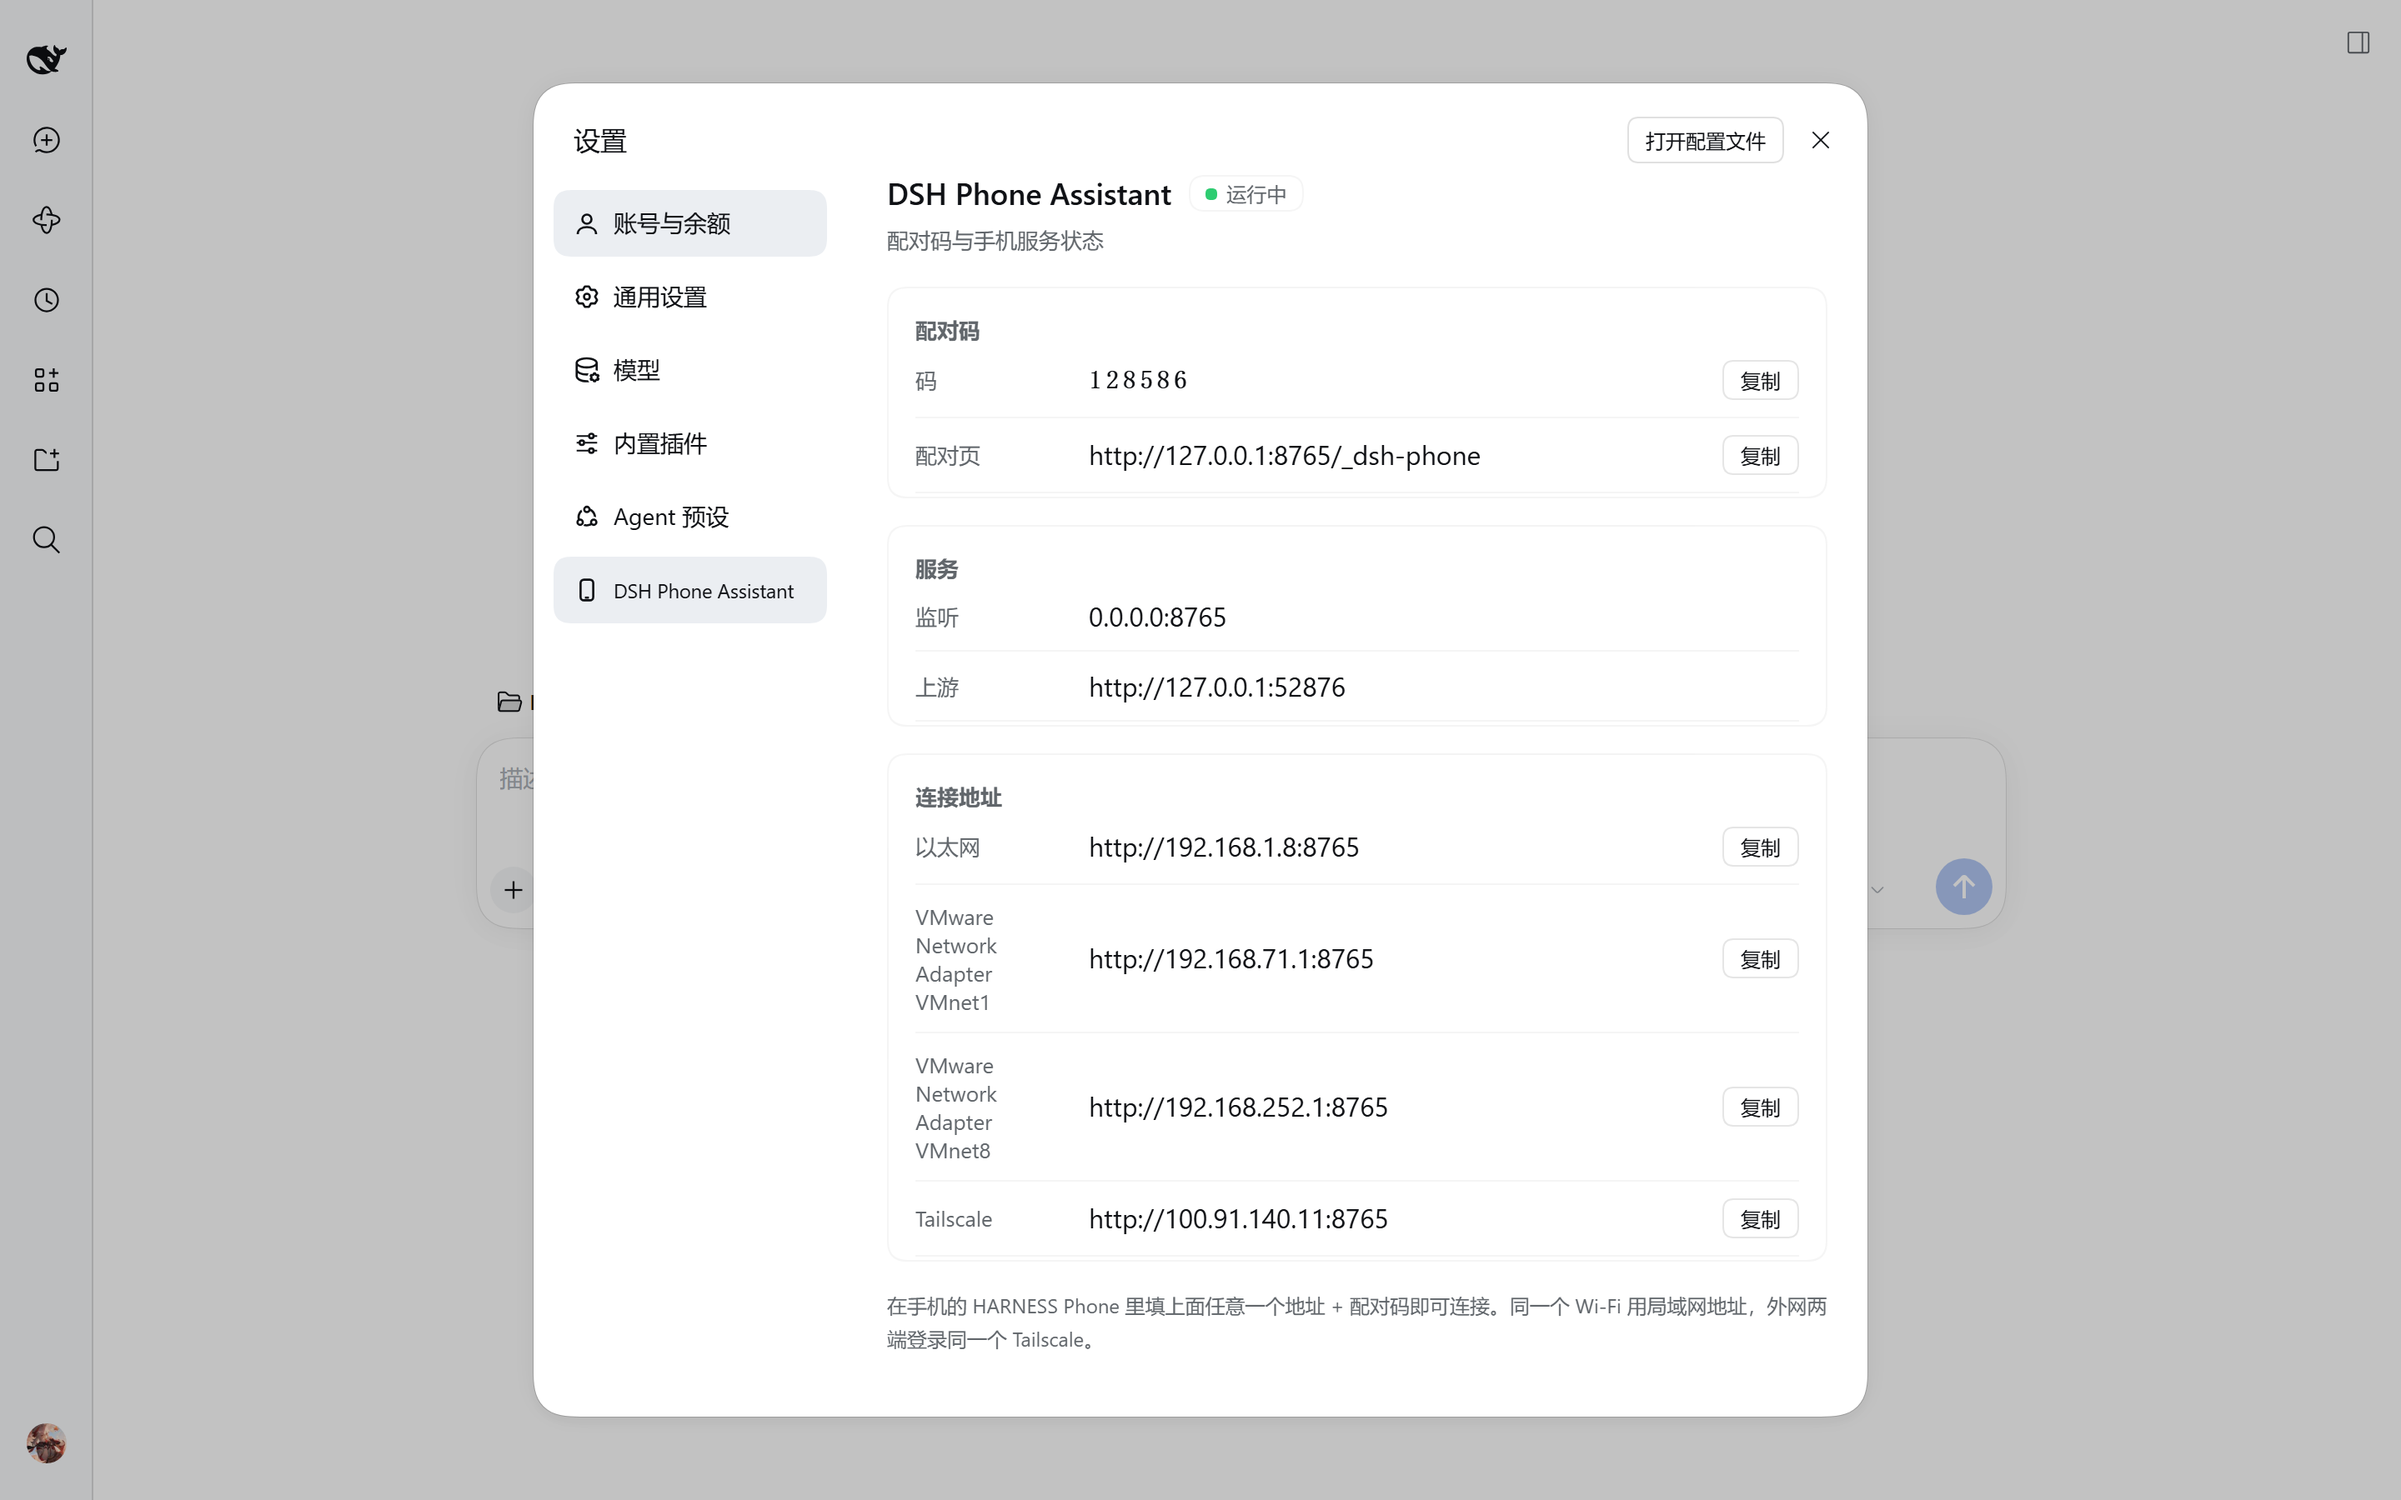
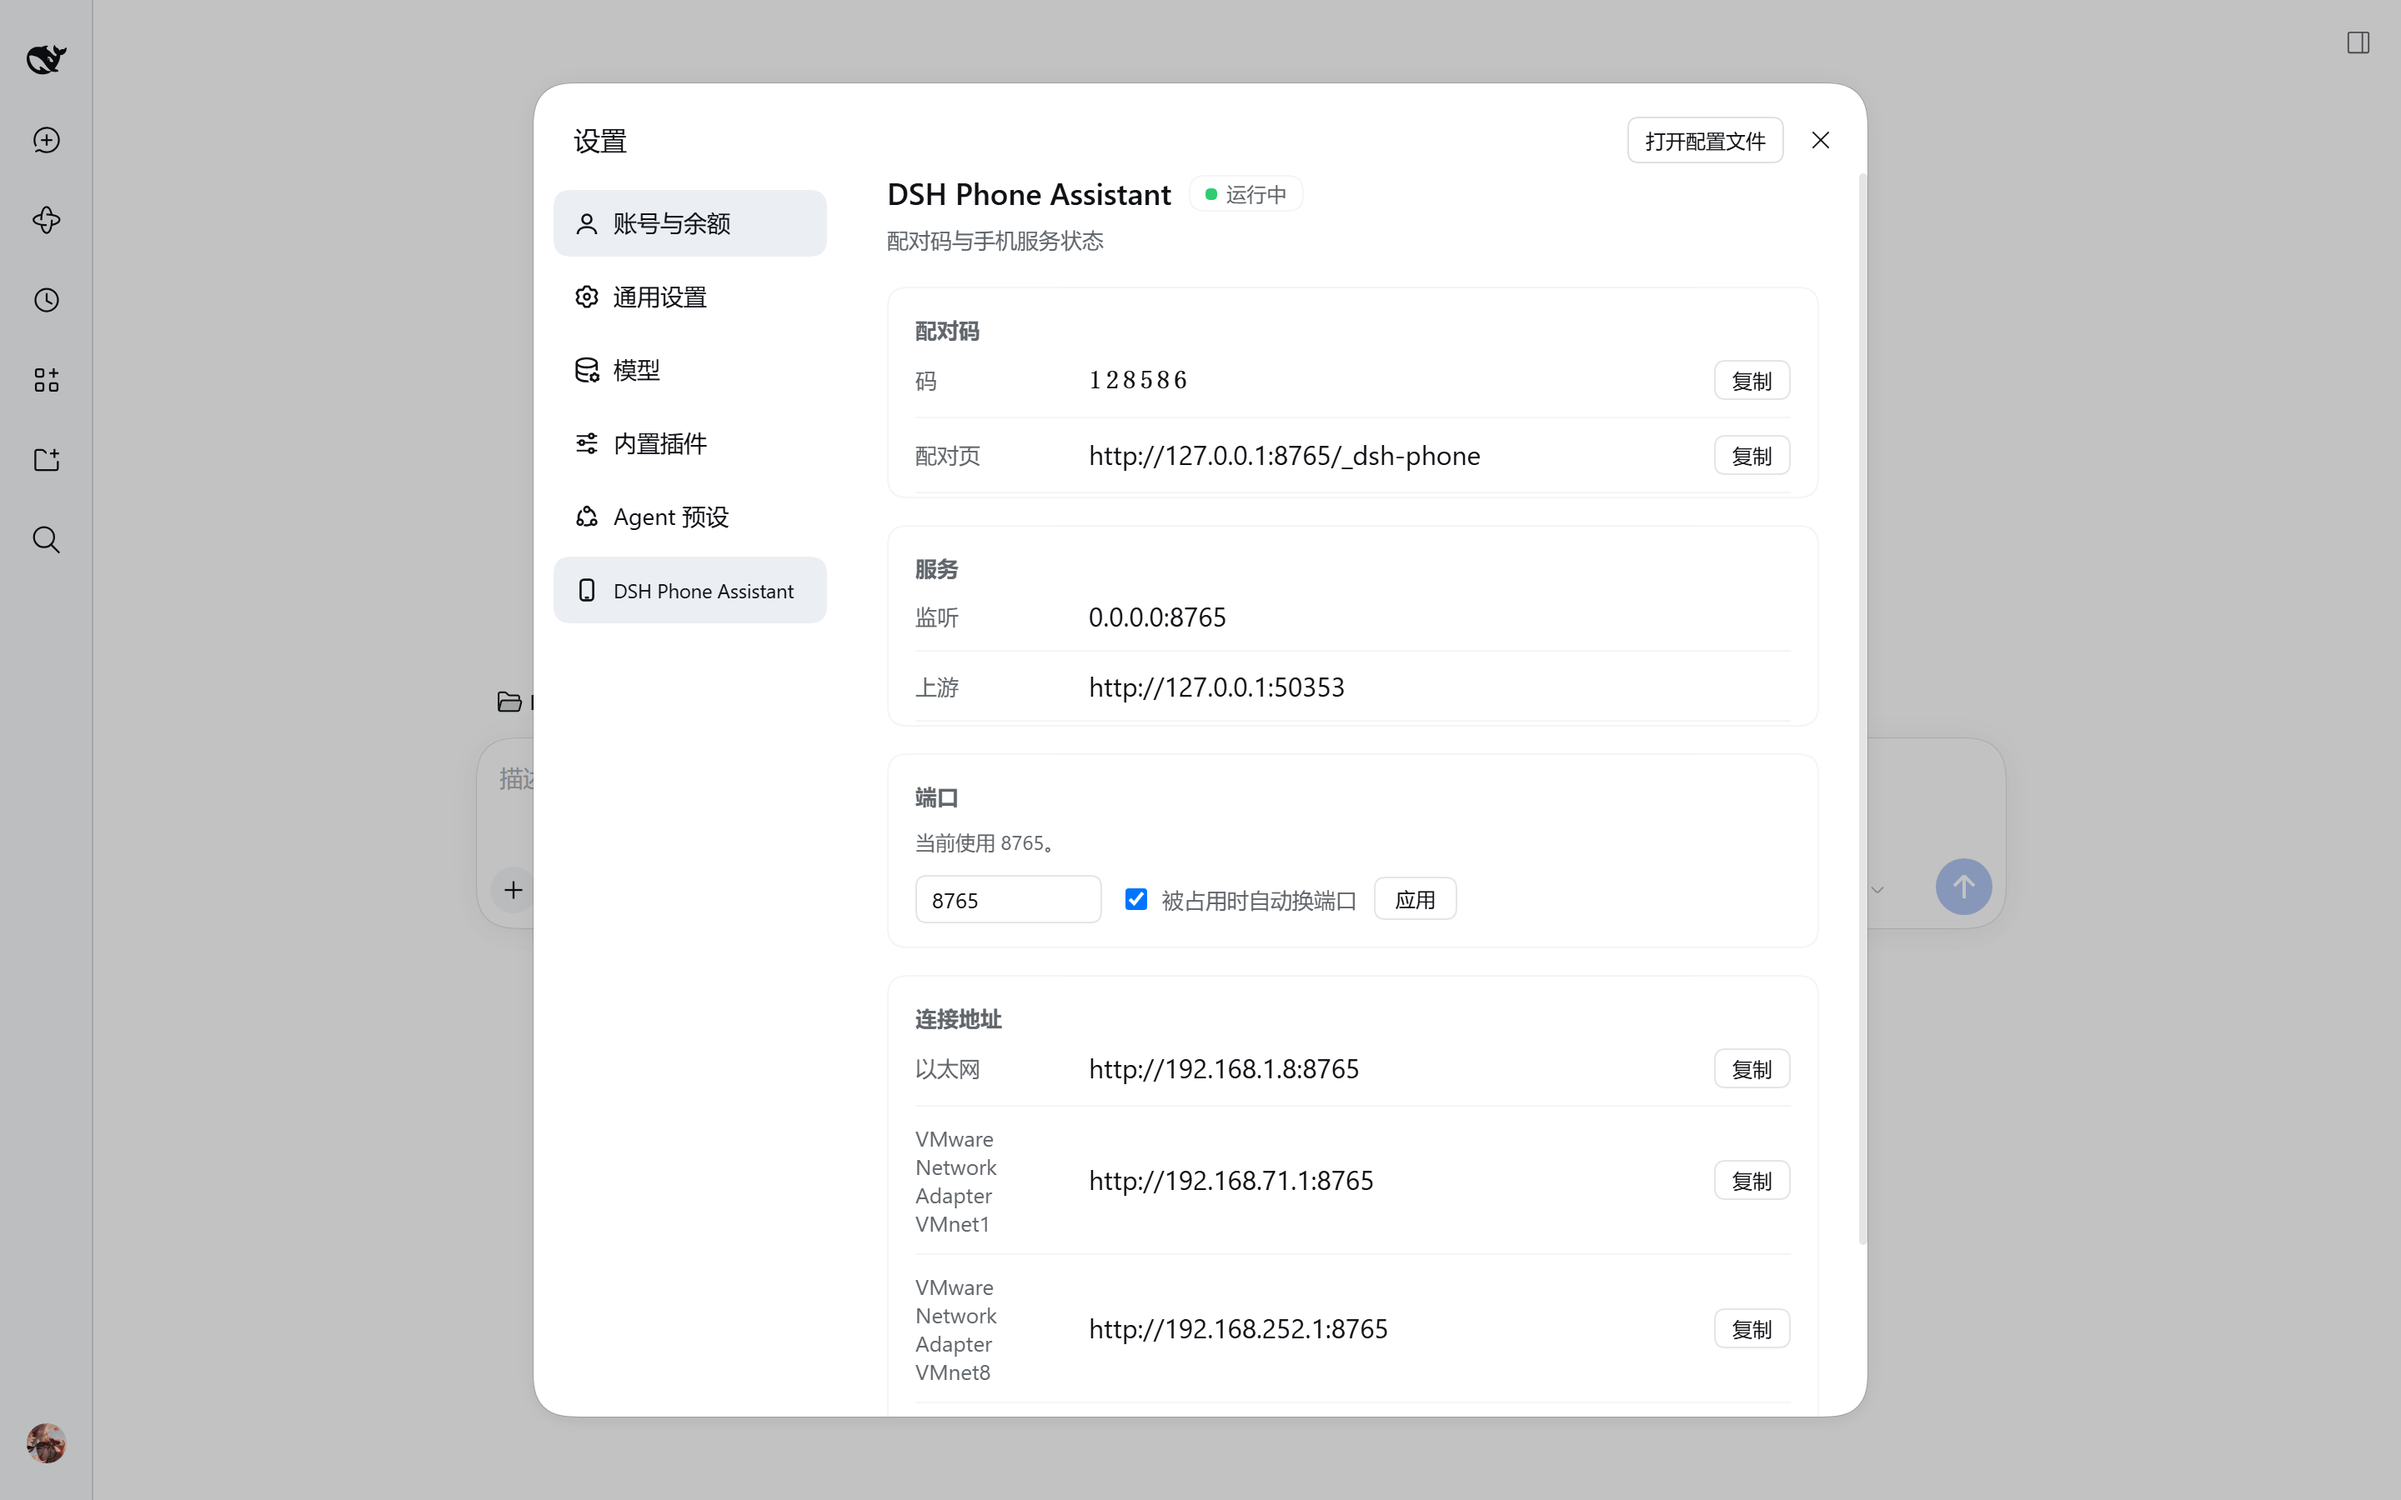
Probe the port range in the settings section and accept preflights

diff --git a/lib/client.js b/lib/client.js
@@ -1650,7 +1650,8 @@ function runSettingsSection() {
   if (window.__hpPhoneSettingsSection) return
   window.__hpPhoneSettingsSection = true
 
-  const BRIDGE = 'http://127.0.0.1:8765'
+  let BRIDGE = null
+  const PORT_CANDIDATES = Array.from({ length: 26 }, (_, i) => 8765 + i)
   const LABEL = 'DSH Phone Assistant'
   const SUBTITLE = '配对码与手机服务状态'
 
@@ -1794,19 +1795,37 @@ function runSettingsSection() {
       '在手机的 HARNESS Phone 里填上面任意一个地址 + 配对码即可连接。同一个 Wi-Fi 用局域网地址，外网两端登录同一个 Tailscale。'))
   }
 
+  async function readStatus(base) {
+    const controller = new AbortController()
+    const timer = setTimeout(() => controller.abort(), 1200)
+    try {
+      const res = await fetch(base + '/__dsh-phone/status?t=' + Date.now(), { signal: controller.signal })
+      if (!res.ok) return null
+      return await res.json()
+    } finally {
+      clearTimeout(timer)
+    }
+  }
+
   async function refresh() {
     if (polling) return
     polling = true
     try {
-      const controller = new AbortController()
-      const timer = setTimeout(() => controller.abort(), 1500)
-      const res = await fetch(BRIDGE + '/__dsh-phone/status', { cache: 'no-store', signal: controller.signal })
-      clearTimeout(timer)
-      data = res.ok ? await res.json() : null
-      failure = res.ok ? null : '状态接口返回 ' + res.status
+      // The bridge may move to another port when 8765 is taken, so probe the range.
+      const candidates = BRIDGE ? [BRIDGE, ...PORT_CANDIDATES.map((p) => 'http://127.0.0.1:' + p)] : PORT_CANDIDATES.map((p) => 'http://127.0.0.1:' + p)
+      let payload = null
+      for (const base of candidates) {
+        if (BRIDGE && base !== BRIDGE && payload) break
+        try {
+          payload = await readStatus(base)
+          if (payload) { BRIDGE = base; break }
+        } catch (_) {}
+      }
+      data = payload
+      failure = payload ? null : '没有找到正在运行的手机服务（8765 及之后的端口都没有响应）。'
     } catch (error) {
       data = null
-      failure = '连不上本机的 8765 端口（' + (error && error.message ? error.message : 'unknown') + '）。'
+      failure = '连不上手机服务（' + (error && error.message ? error.message : 'unknown') + '）。'
     } finally {
       polling = false
       render()

diff --git a/src/settings-section.js b/src/settings-section.js
@@ -8,7 +8,8 @@ function runSettingsSection() {
   if (window.__hpPhoneSettingsSection) return
   window.__hpPhoneSettingsSection = true
 
-  const BRIDGE = 'http://127.0.0.1:8765'
+  let BRIDGE = null
+  const PORT_CANDIDATES = Array.from({ length: 26 }, (_, i) => 8765 + i)
   const LABEL = 'DSH Phone Assistant'
   const SUBTITLE = '配对码与手机服务状态'
 
@@ -152,19 +153,37 @@ function runSettingsSection() {
       '在手机的 HARNESS Phone 里填上面任意一个地址 + 配对码即可连接。同一个 Wi-Fi 用局域网地址，外网两端登录同一个 Tailscale。'))
   }
 
+  async function readStatus(base) {
+    const controller = new AbortController()
+    const timer = setTimeout(() => controller.abort(), 1200)
+    try {
+      const res = await fetch(base + '/__dsh-phone/status?t=' + Date.now(), { signal: controller.signal })
+      if (!res.ok) return null
+      return await res.json()
+    } finally {
+      clearTimeout(timer)
+    }
+  }
+
   async function refresh() {
     if (polling) return
     polling = true
     try {
-      const controller = new AbortController()
-      const timer = setTimeout(() => controller.abort(), 1500)
-      const res = await fetch(BRIDGE + '/__dsh-phone/status', { cache: 'no-store', signal: controller.signal })
-      clearTimeout(timer)
-      data = res.ok ? await res.json() : null
-      failure = res.ok ? null : '状态接口返回 ' + res.status
+      // The bridge may move to another port when 8765 is taken, so probe the range.
+      const candidates = BRIDGE ? [BRIDGE, ...PORT_CANDIDATES.map((p) => 'http://127.0.0.1:' + p)] : PORT_CANDIDATES.map((p) => 'http://127.0.0.1:' + p)
+      let payload = null
+      for (const base of candidates) {
+        if (BRIDGE && base !== BRIDGE && payload) break
+        try {
+          payload = await readStatus(base)
+          if (payload) { BRIDGE = base; break }
+        } catch (_) {}
+      }
+      data = payload
+      failure = payload ? null : '没有找到正在运行的手机服务（8765 及之后的端口都没有响应）。'
     } catch (error) {
       data = null
-      failure = '连不上本机的 8765 端口（' + (error && error.message ? error.message : 'unknown') + '）。'
+      failure = '连不上手机服务（' + (error && error.message ? error.message : 'unknown') + '）。'
     } finally {
       polling = false
       render()

diff --git a/lib/index.js b/lib/index.js
@@ -479,11 +479,19 @@ export function apply(ctx, pluginConfig = {}) {
         }
         const originHeader = req.headers.origin || ''
         const allowOrigin = /^https?:\/\/(127\.0\.0\.1|localhost|\[::1\])(:\d+)?$/.test(originHeader)
-        res.writeHead(200, {
-          'content-type': 'application/json; charset=utf-8',
-          'cache-control': 'no-store',
-          ...(allowOrigin ? { 'access-control-allow-origin': originHeader, vary: 'origin' } : {}),
-        })
+        const corsHeaders = allowOrigin ? {
+          'access-control-allow-origin': originHeader,
+          'access-control-allow-methods': 'GET, POST, OPTIONS',
+          'access-control-allow-headers': 'content-type',
+          'access-control-allow-private-network': 'true',
+          vary: 'origin',
+        } : {}
+        if (req.method === 'OPTIONS') {
+          res.writeHead(204, { ...corsHeaders, 'access-control-max-age': '600' })
+          res.end()
+          return
+        }
+        res.writeHead(200, { 'content-type': 'application/json; charset=utf-8', 'cache-control': 'no-store', ...corsHeaders })
         res.end(JSON.stringify(statusPayload()))
         return
       }
